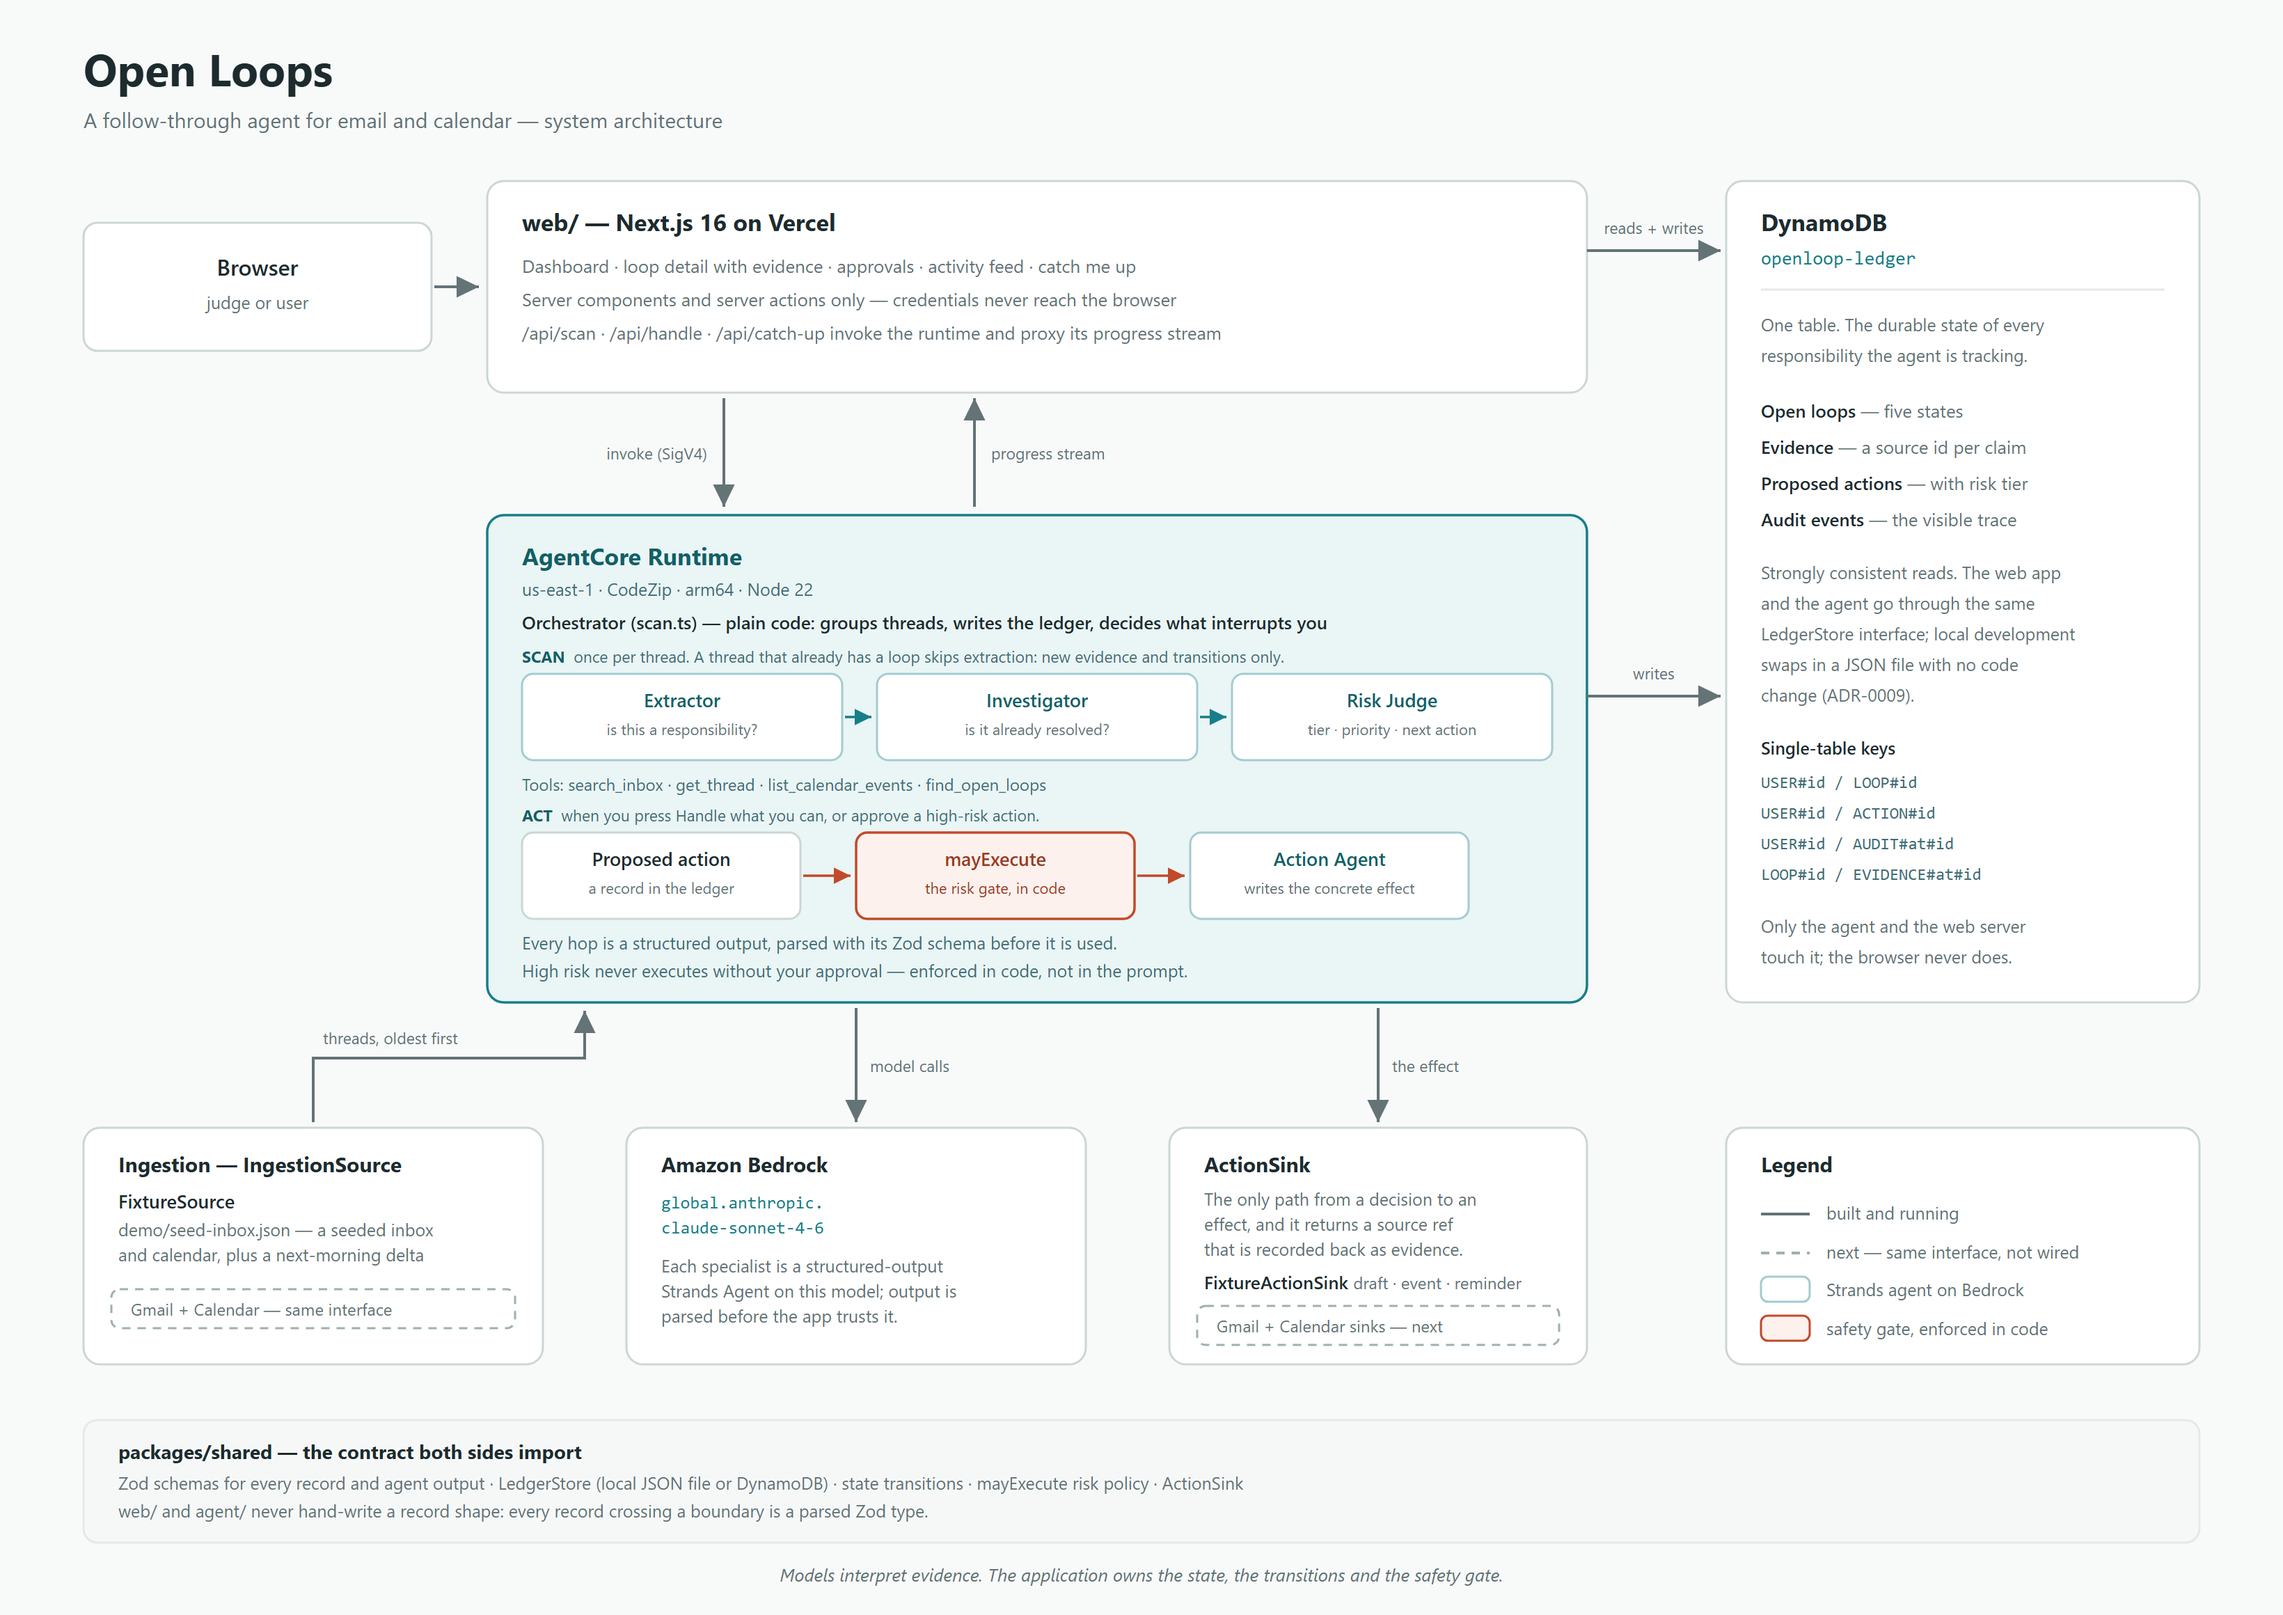
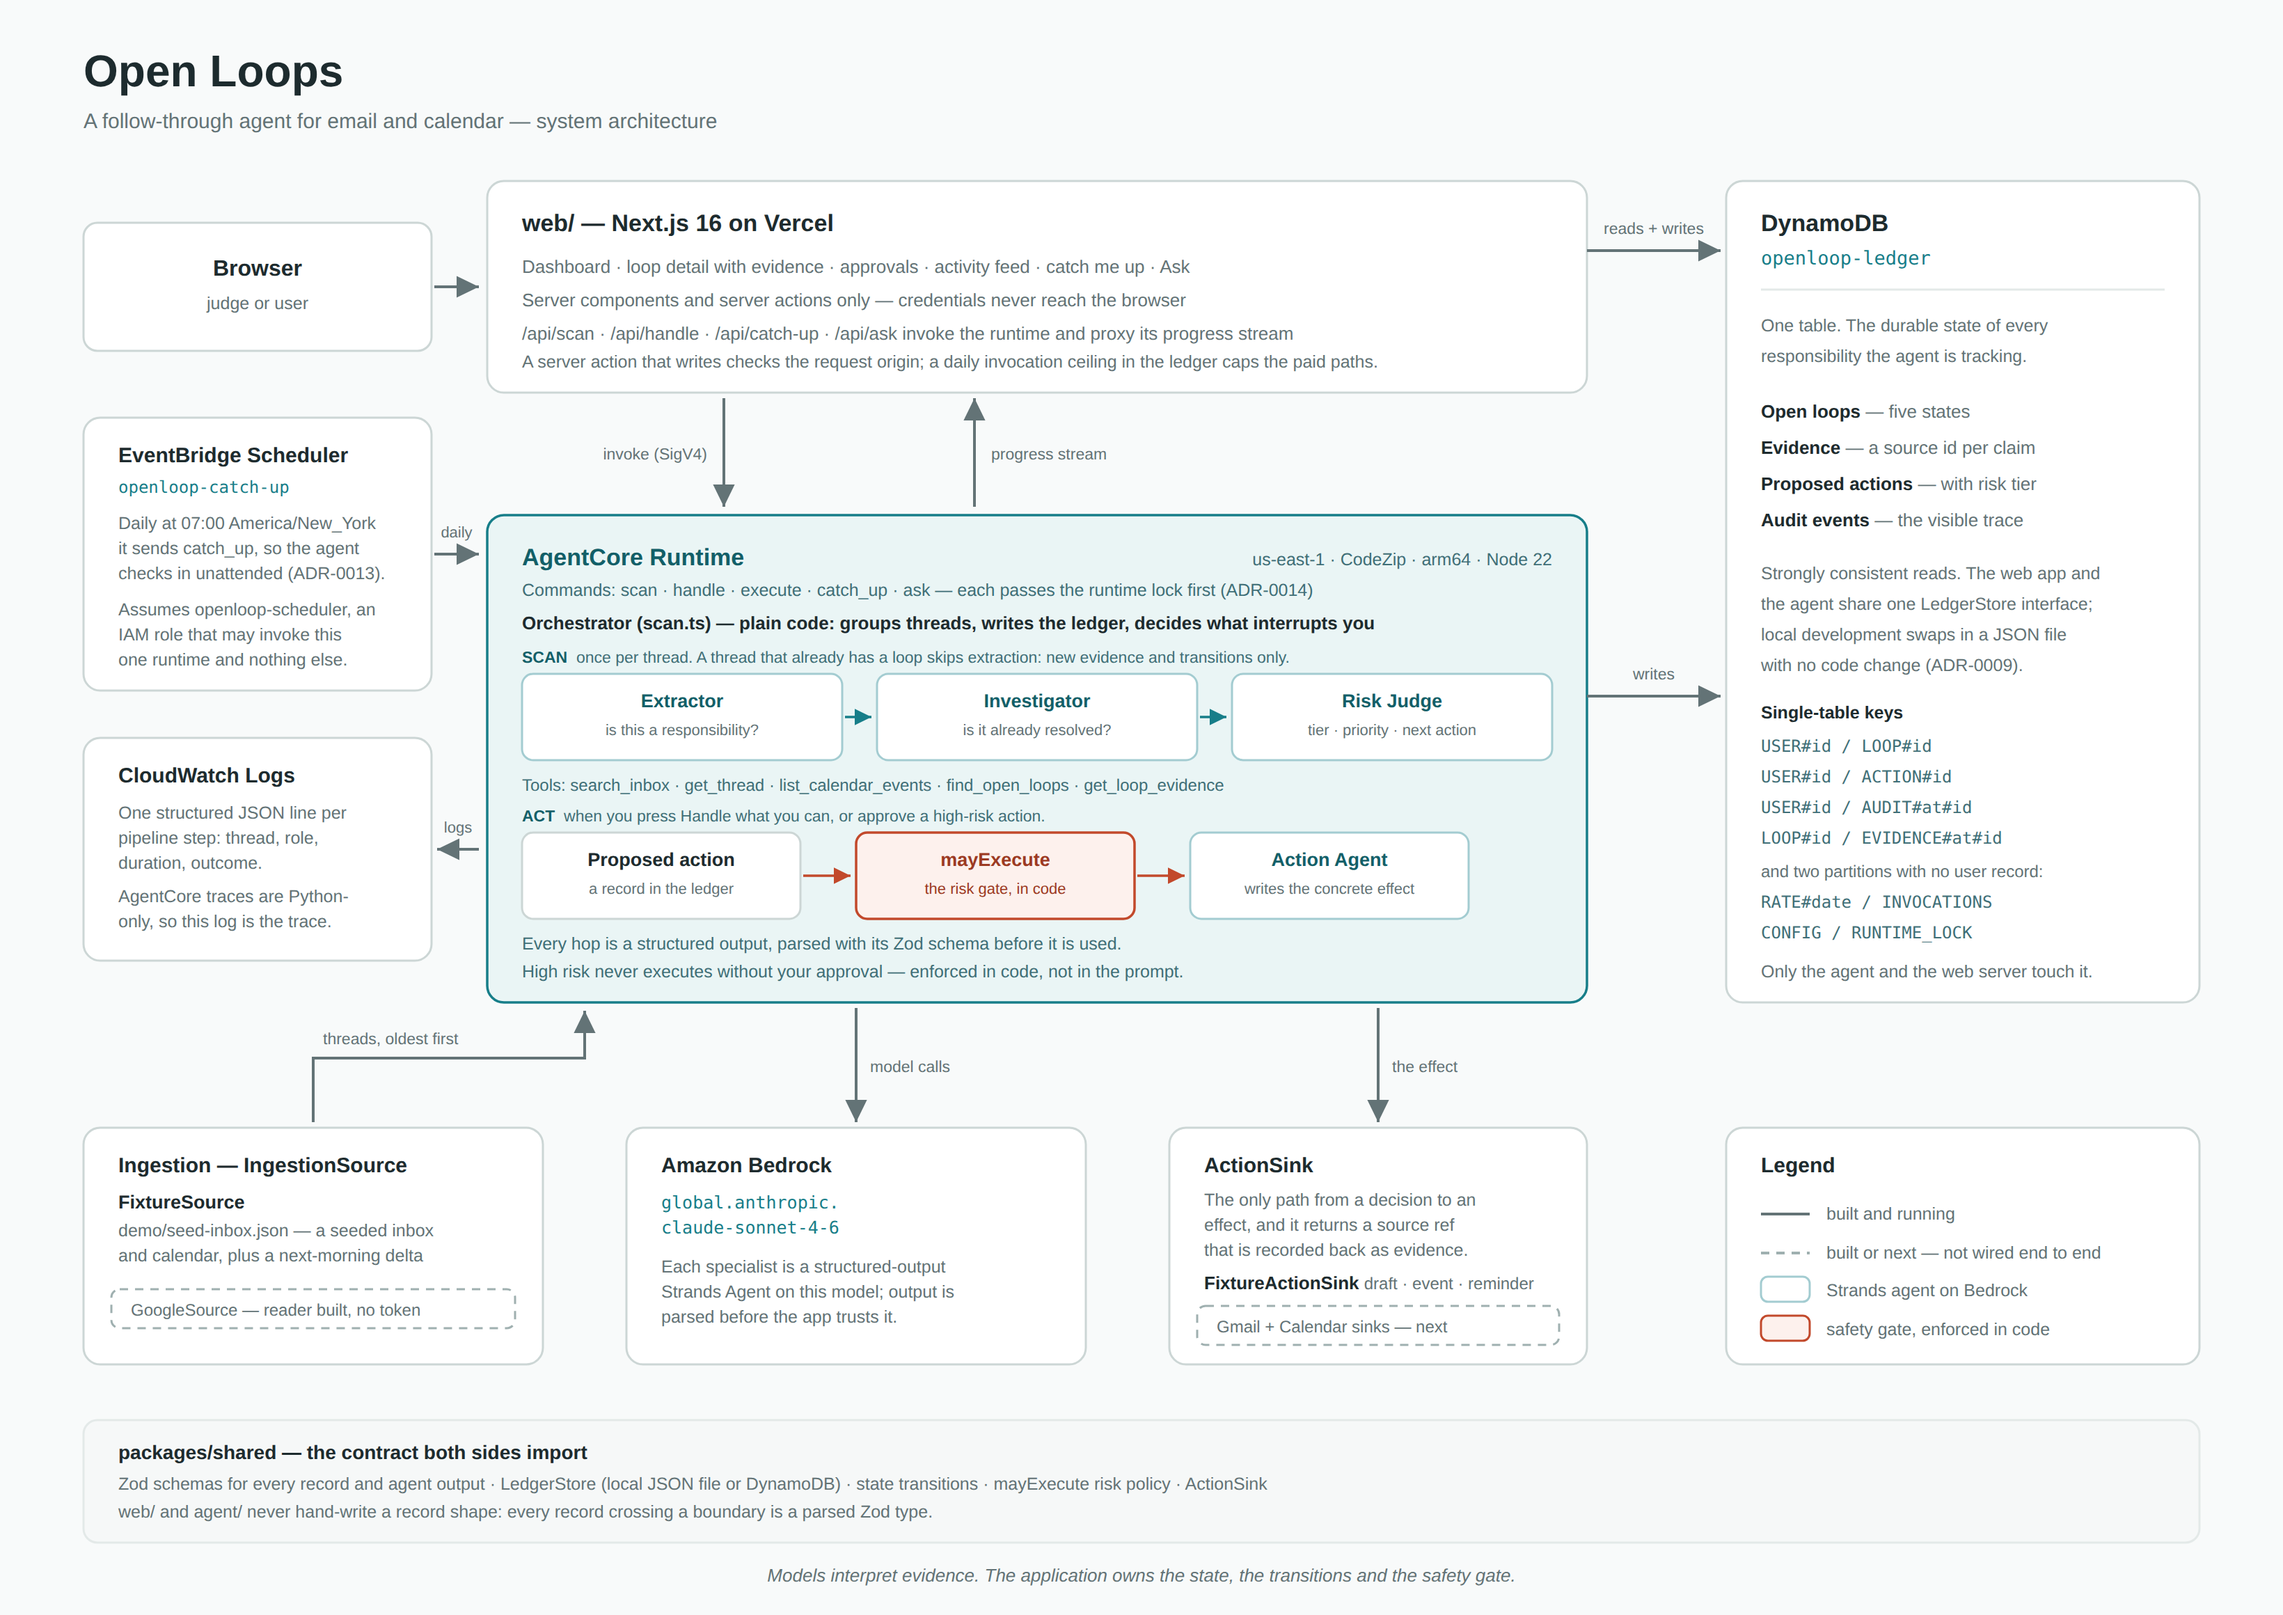
docs(architecture): the diagram catches up with the services the agent uses
The submission diagram was last redrawn at #141 and had since gone quiet
about two AWS services that are now part of how the agent runs.

- EventBridge Scheduler and CloudWatch Logs are on the diagram, in the
  empty left column, with the schedule that invokes catch_up daily and
  the structured log line the runtime emits per pipeline step.
- The runtime header carries the five commands and the lock each one
  passes before dispatch (ADR-0014); the deployment target moves to the
  right of the title to make room.
- The ledger panel lists the two partitions that hold no user record,
  RATE#date / INVOCATIONS and CONFIG / RUNTIME_LOCK.
- The tools line includes get_loop_evidence, which the Ask path reads
  evidence back through.
- The web box names /api/ask, the origin check on writes and the daily
  invocation ceiling.
- Ingestion says the Google reader is built and waiting on a token
  rather than describing it as unwired, and the legend follows.

The font stack gains an Arial-metric fallback ahead of system-ui. Segoe
UI still wins where it exists; without the fallback a Linux or container
export lands on DejaVu Sans, which is wide enough to push text out of
the ActionSink and runtime boxes. The re-export recipe in the README now
covers the headless viewport coming up short of --window-size, which
silently cut the bottom band off the export.

Claude-Session: https://claude.ai/code/session_01C62zb8JYojiJwvWL6P8nak

diff --git a/STATUS.md b/STATUS.md
@@ -35,6 +35,7 @@ One owner per issue and no issue waits on another. Every issue states why it mat
 
 ## Recently completed
 
+- 2026-09-14 The submission architecture diagram caught up with the system it describes: it was last redrawn at #141 and had since gone quiet about two AWS services the agent actually uses. EventBridge Scheduler and CloudWatch Logs are now on it, the runtime header carries the five commands and the lock that gates them (ADR-0014), the ledger panel lists the two partitions that hold no user record (`RATE#date`, `CONFIG`), the tools line includes `get_loop_evidence`, the web box names `/api/ask`, the origin check and the daily ceiling, and the ingestion box says the Google reader is built and waiting on a token rather than calling it unwired. The font stack gained an Arial-metric fallback so an export from Linux or a container matches the Windows one instead of overflowing its boxes.
 - 2026-09-14 Five fixes from walking the app: a swipe holds where it is held and stays open on its button when let go part of the way, and a move that lands no longer slides the row back; arrow keys move the focus without opening the loop, Enter opens it; Back from a decision reached through Review returns to the responsibility and its list rather than to Decisions, and a proposal the agent may do alone no longer says it "did not complete"; Today and Calendar open on a greeting island lit in the chosen accent; Catch me up is grouped by urgency (`lib/catch-up.ts`) (#205).
 - 2026-09-13 Calibration harness defaults to one representative subset run, retains full-demo verification and fails on disagreement (#153).
 - 2026-09-14 `book_appointment` joins the type floor in `isAutoExecutable`: booking a paid service never executes unattended whatever tier the Risk Judge assigned, which is what ADR-0005's tier table already said. Approval still runs it. The seeded demo is unchanged because the dentist action already required approval; a freshly scanned live table gains one Decisions card (#199, ab00bae, closes #169).

diff --git a/docs/architecture/README.md b/docs/architecture/README.md
@@ -21,9 +21,20 @@ Re-export the PNG by screenshotting the SVG with any headless Chromium. On Windo
   "file:///$(pwd -W)/openloop-architecture.svg"
 ```
 
-`--force-device-scale-factor=2` is what makes the export 3280 x 2320 and legible when a judge zooms in. Keep the window size equal to the SVG canvas, or the export will be cropped or letterboxed.
+`--force-device-scale-factor=2` is what makes the export 3280 x 2320 and legible when a judge zooms in.
 
-Fonts are a system stack (Segoe UI, then `system-ui`); the PNG is what ships, so a machine without Segoe UI will re-export at slightly different text widths. Check the render for overflow before committing it.
+On Linux and in containers, two things differ. The headless viewport comes up shorter than `--window-size`, which silently cuts the bottom band off the export, so render taller and crop back to the canvas:
+
+```
+chrome --headless=new --disable-gpu --no-sandbox --hide-scrollbars \
+  --force-device-scale-factor=2 --window-size=1640,1320 \
+  --screenshot=/tmp/tall.png "file://$(pwd)/openloop-architecture.svg"
+python3 -c "from PIL import Image; Image.open('/tmp/tall.png').crop((0,0,3280,2320)).save('openloop-architecture.png')"
+```
+
+Check the export before committing it: the last row of ink should be 2277, which is the italic line under the shared band. A shorter figure means the render was cut.
+
+Fonts are a system stack: Segoe UI, then Liberation Sans or Arial, then `system-ui`. Segoe UI still wins on Windows, and the Arial-metric fallback keeps a Linux export close to it — without it the generic `sans-serif` resolves to DejaVu Sans, which is wide enough to push text out of the ActionSink and runtime boxes. The PNG is what ships, so check the render for overflow whatever machine you export on.
 
 ## Other diagrams
 
